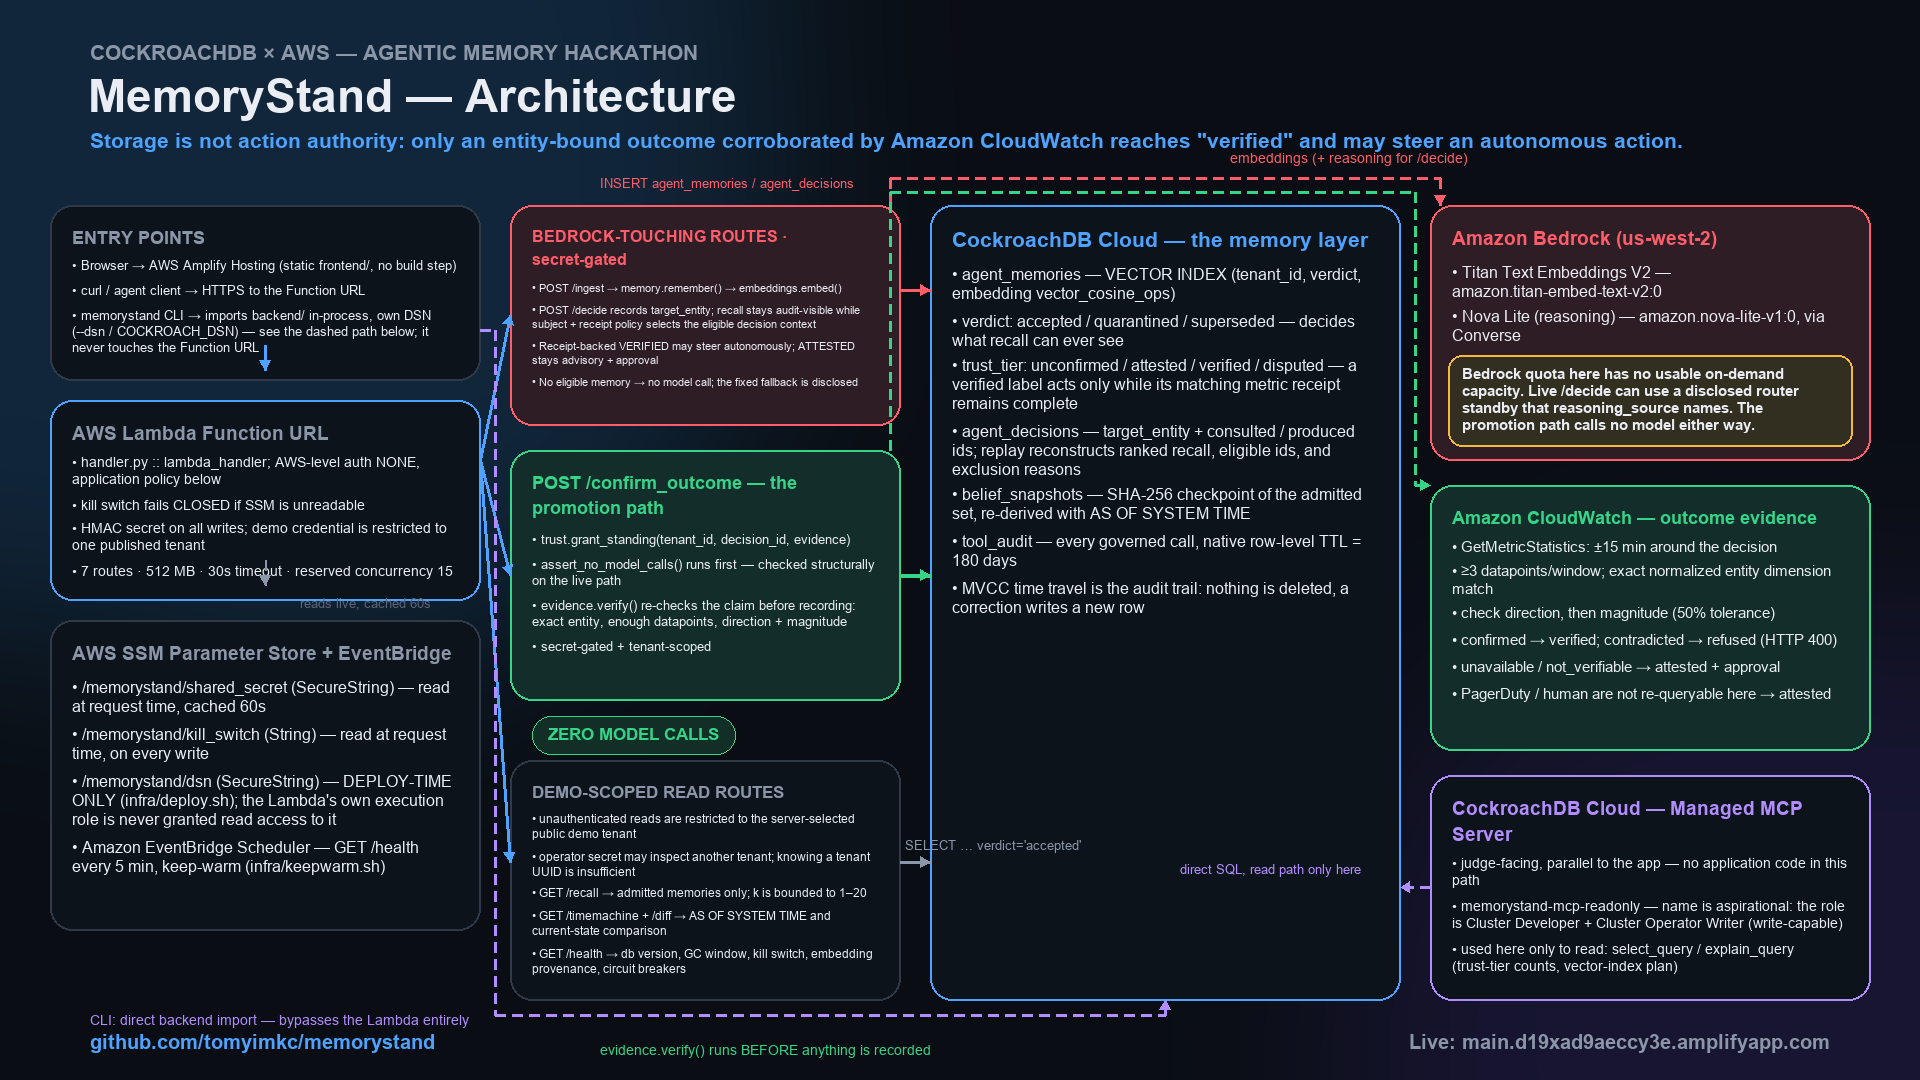
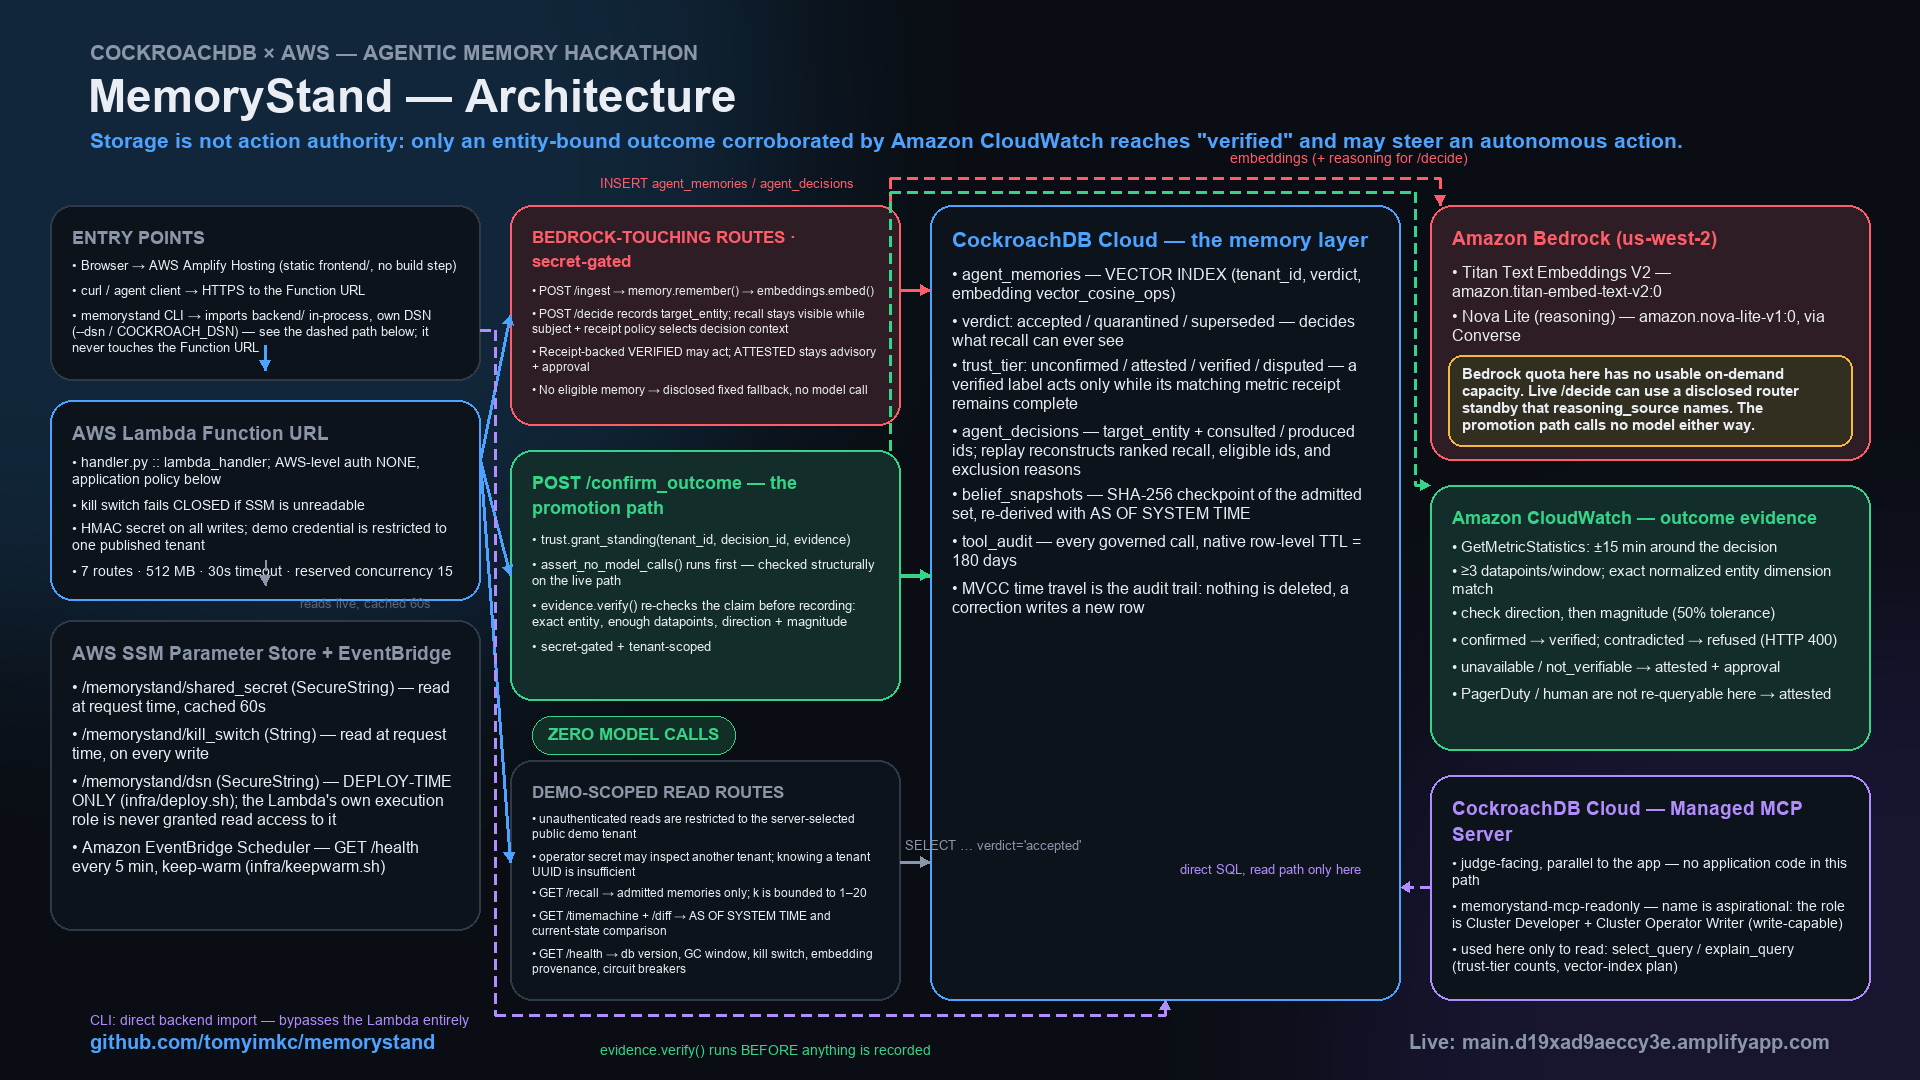
Make architecture diagram fit on Linux

Changed region(s): [[0.2812, 0.2139, 0.4688, 0.3667]]

diff --git a/scripts/render_architecture.py b/scripts/render_architecture.py
@@ -277,10 +277,10 @@ def main() -> int:
         "BEDROCK-TOUCHING ROUTES · secret-gated",
         [
             "POST /ingest → memory.remember() → embeddings.embed()",
-            "POST /decide records target_entity; recall stays audit-visible while subject + "
-            "receipt policy selects the eligible decision context",
-            "Receipt-backed VERIFIED may steer autonomously; ATTESTED stays advisory + approval",
-            "No eligible memory → no model call; the fixed fallback is disclosed",
+            "POST /decide records target_entity; recall stays visible while subject + receipt "
+            "policy selects decision context",
+            "Receipt-backed VERIFIED may act; ATTESTED stays advisory + approval",
+            "No eligible memory → disclosed fixed fallback, no model call",
         ],
         fill=RED_FILL,
         outline=bf.RED,
